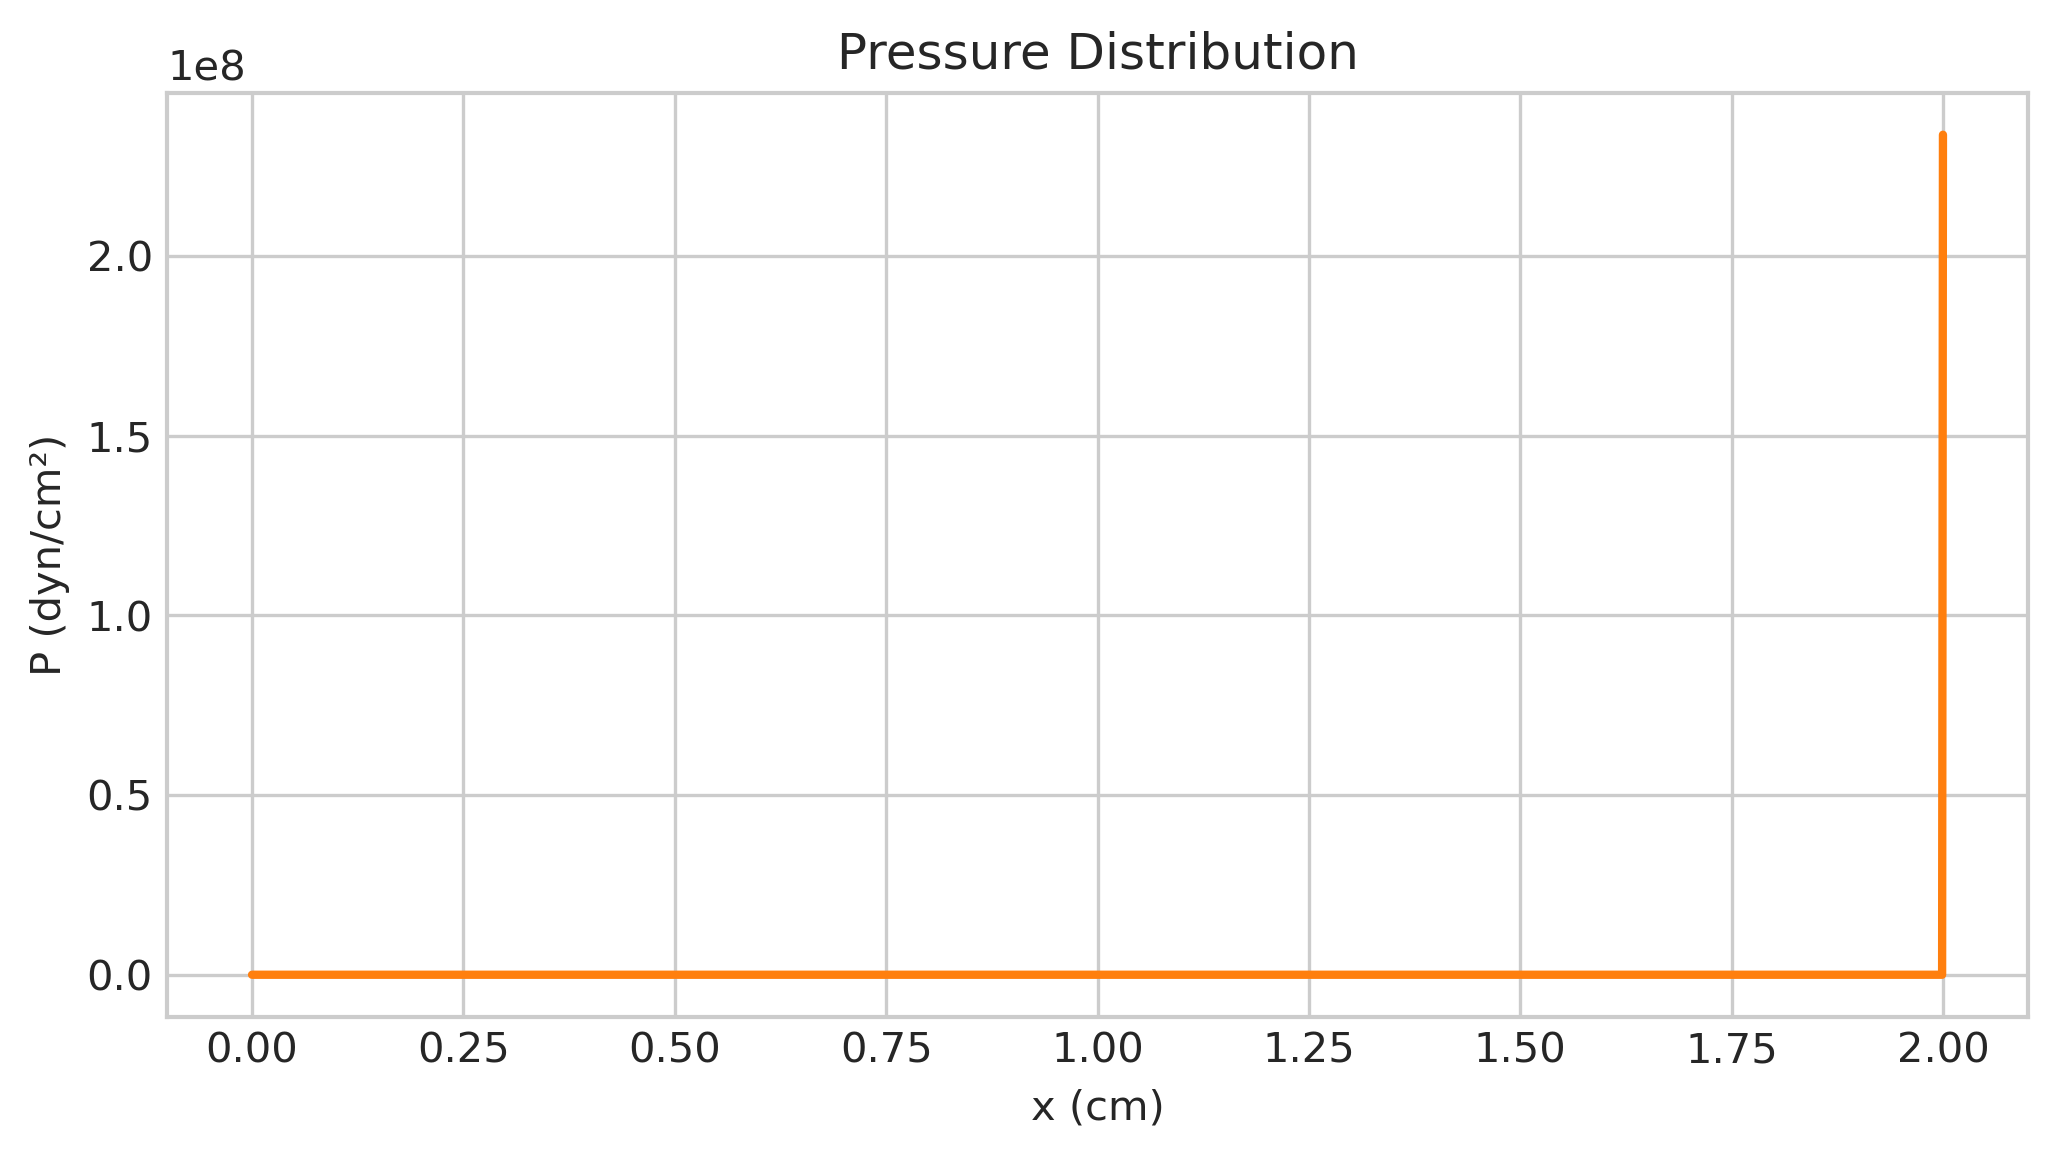
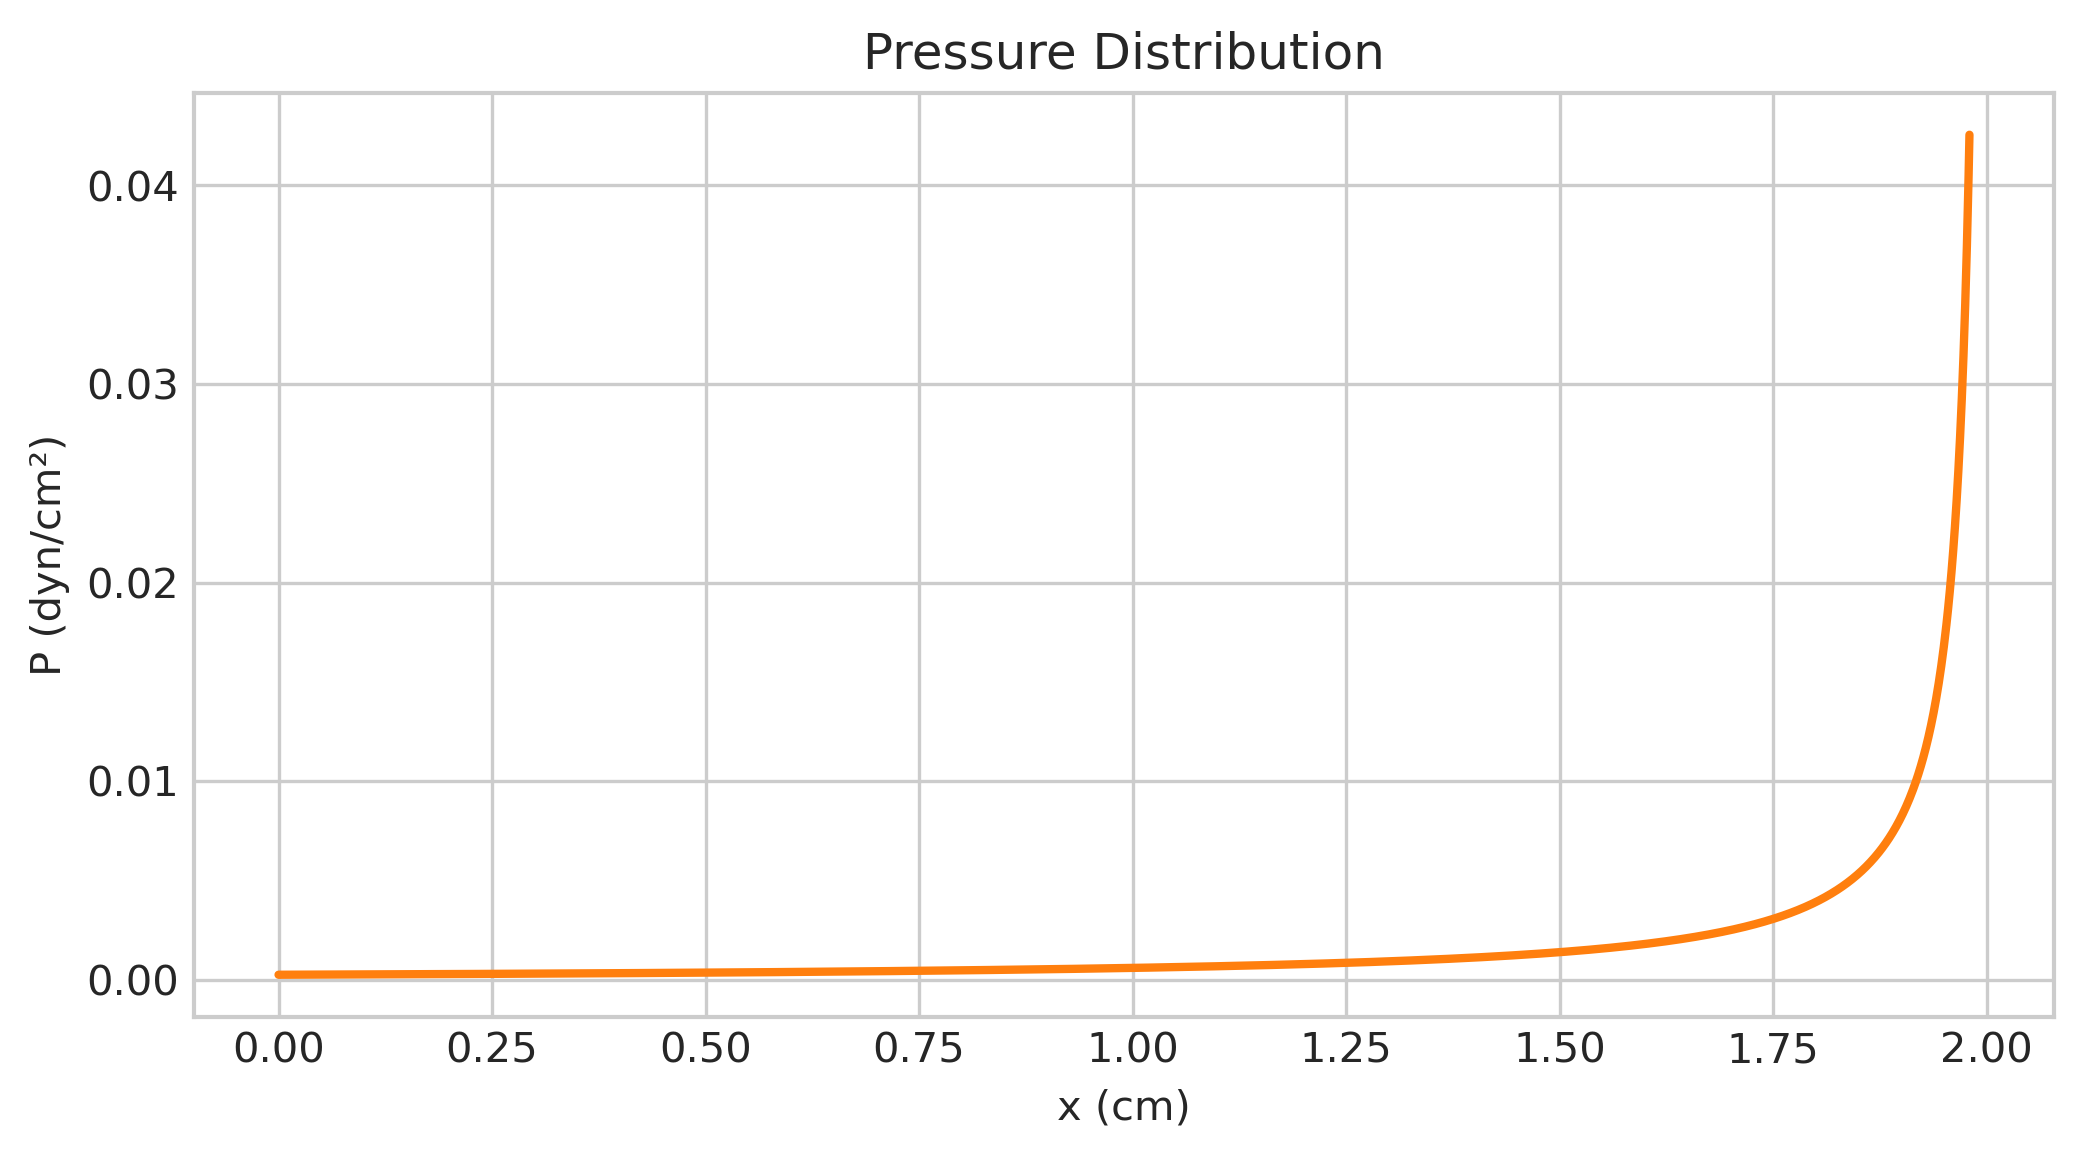
fixed pressure plotting for stress singularity

diff --git a/wedge/thin_film_solver.py b/wedge/thin_film_solver.py
@@ -93,8 +93,9 @@ def plot_film_thickness(x, h, params):
 
 def plot_pressure(x, h_tprime, params):
     P = -params.gamma * h_tprime
+    mask = x <= 0.99 * params.L
     fig, ax = plt.subplots(figsize=(8, 4))
-    ax.plot(x, P, lw=2, color='tab:orange')
+    ax.plot(x[mask], P[mask], lw=2, color='tab:orange')
     ax.set_xlabel("x (cm)")
     ax.set_ylabel("P (dyn/cm²)")
     ax.set_title("Pressure Distribution")
